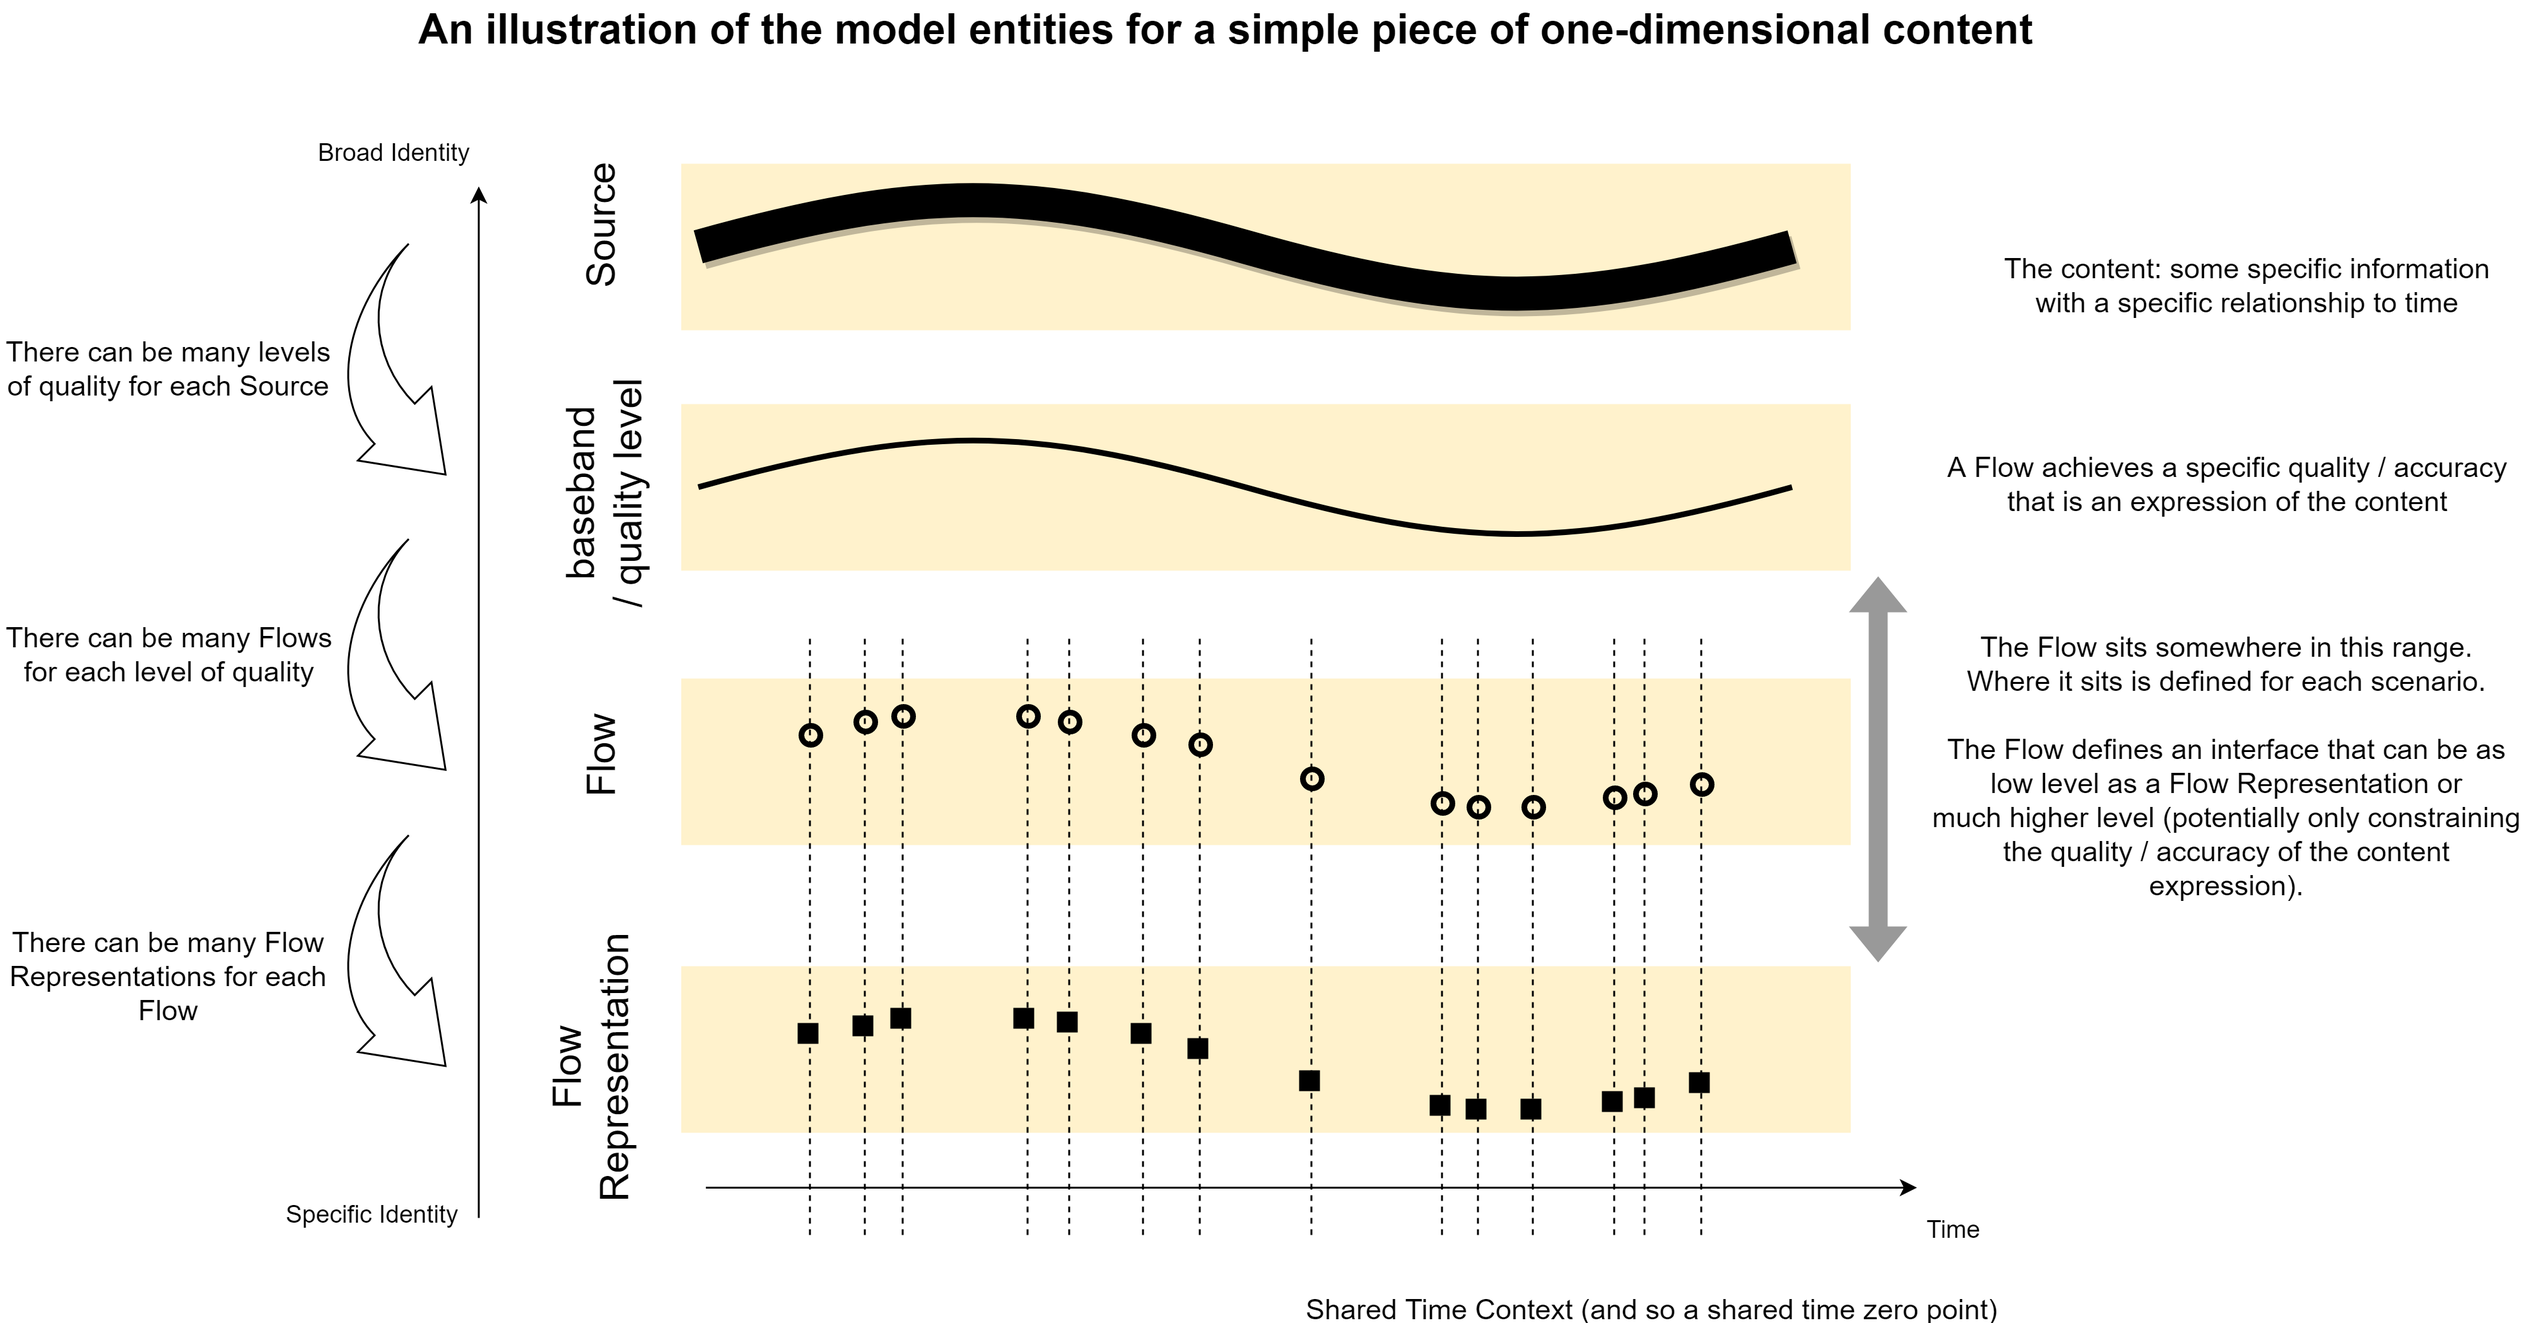
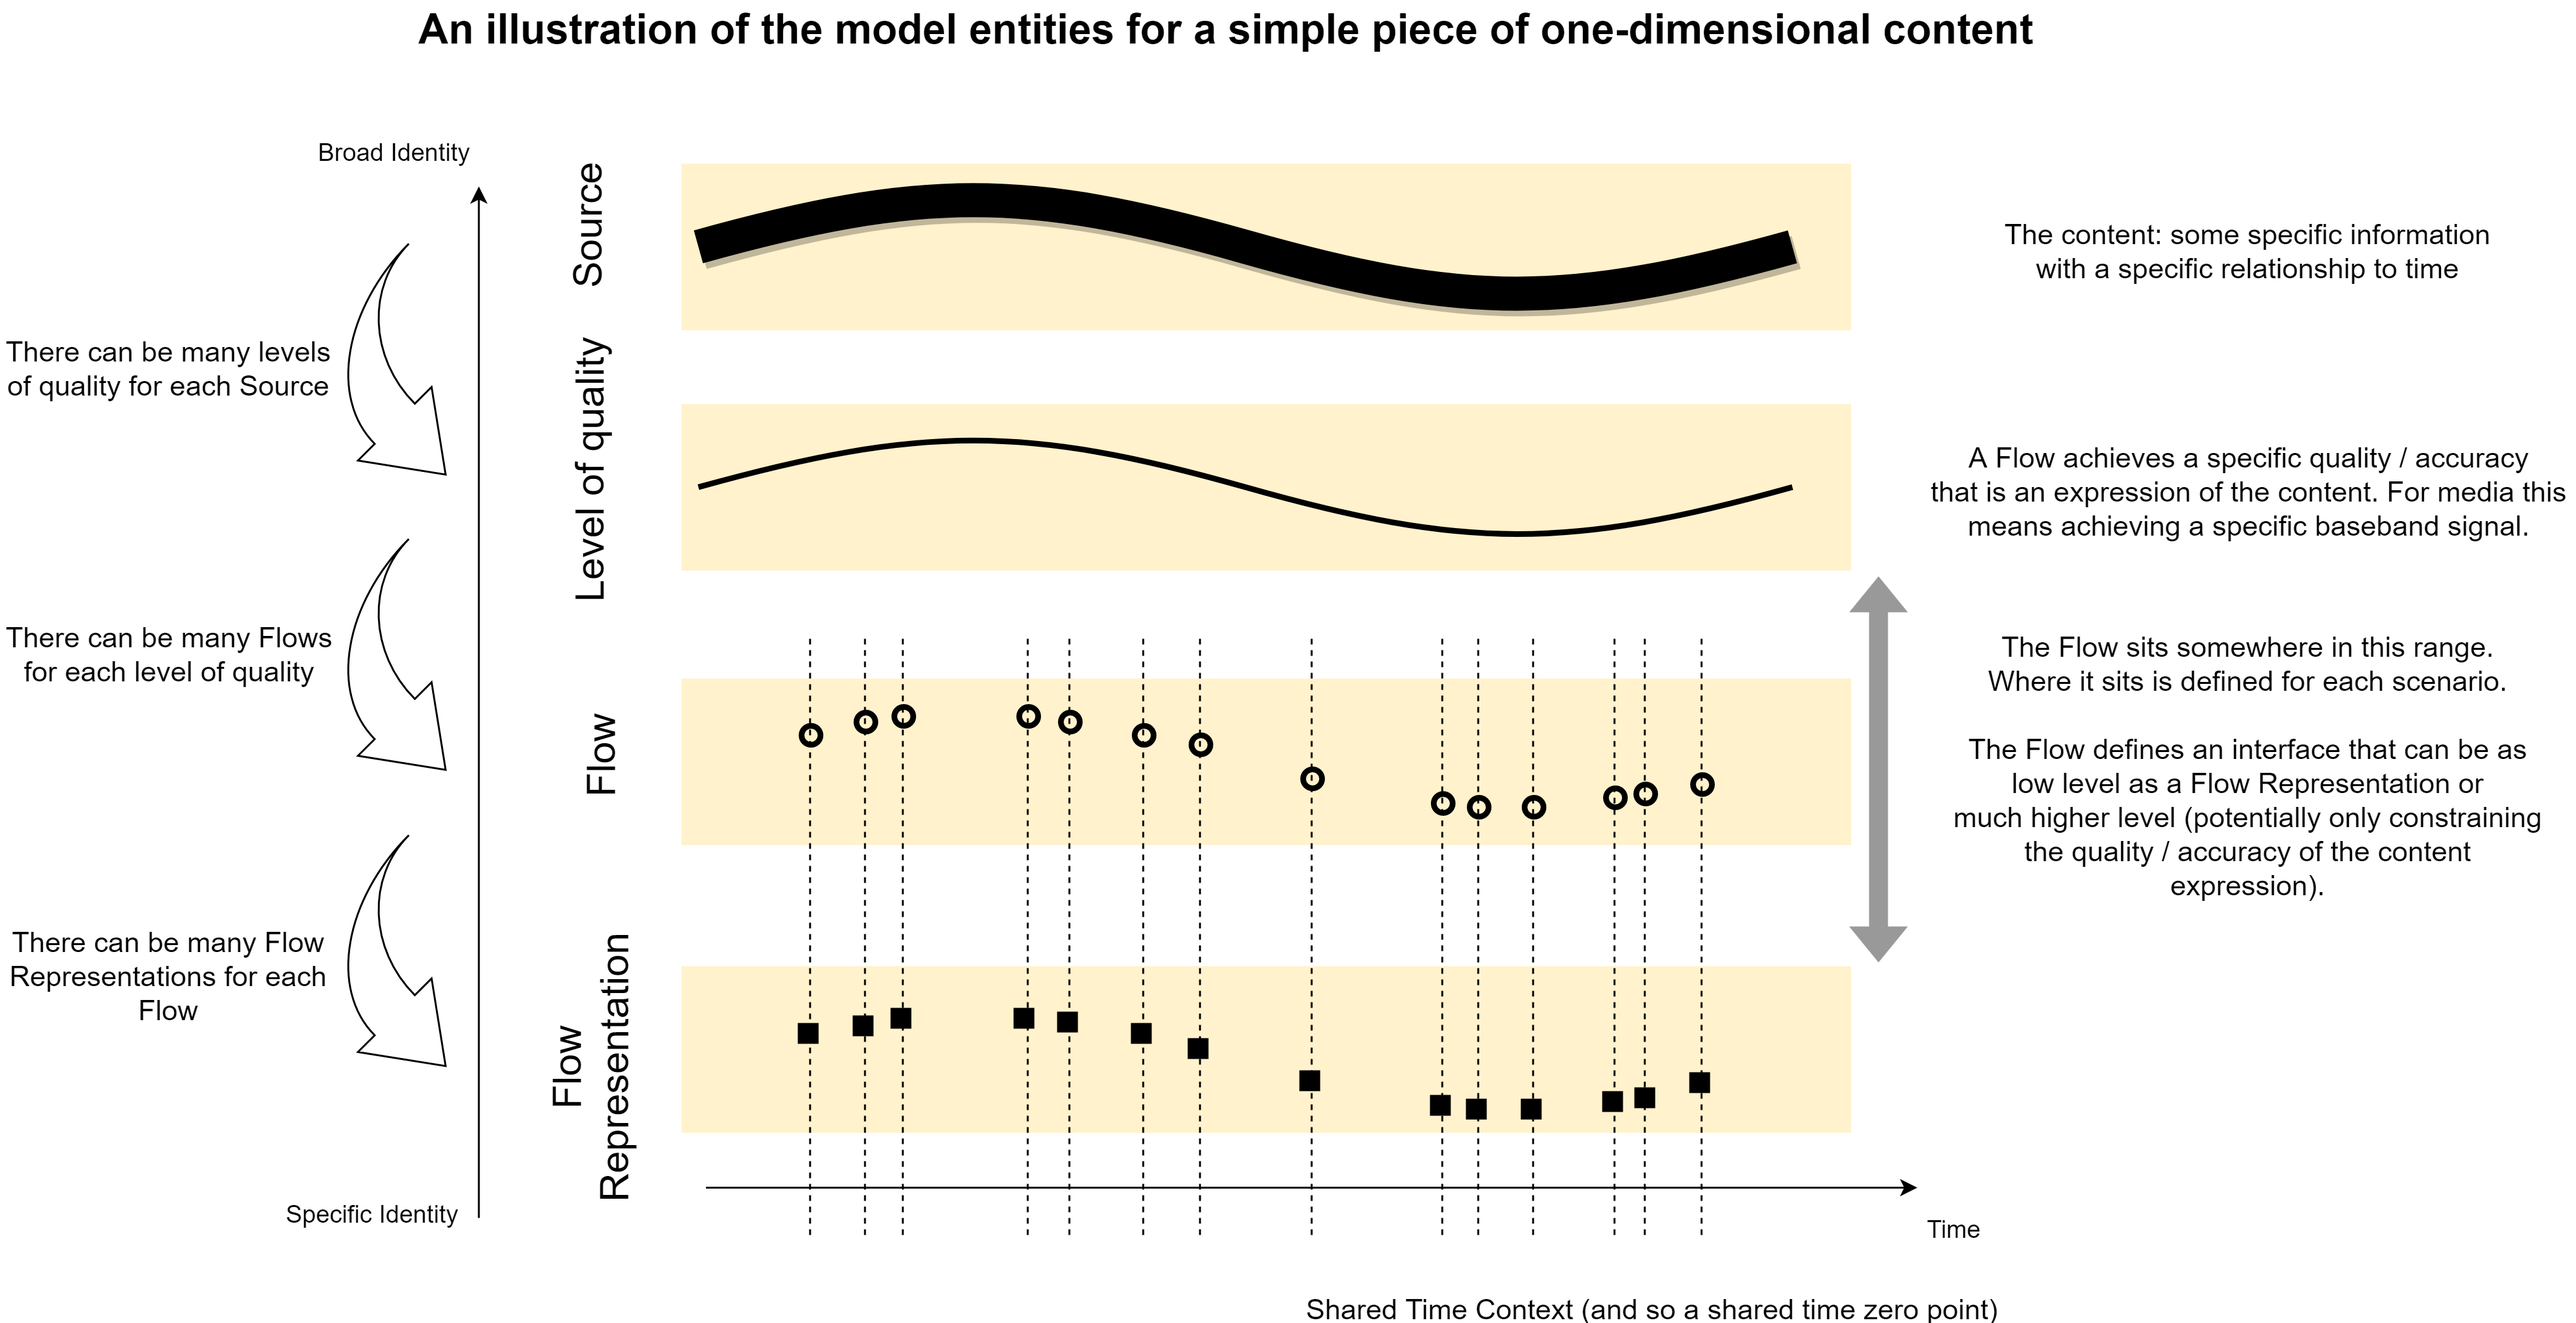
Numerous clarifications and corrections

diff --git a/docs/4.0. Appendix - Commentary.md b/docs/4.0. Appendix - Commentary.md
@@ -12,19 +12,20 @@ The detail contained within this additional documentation will not be of relevan
 
 As with many concepts, the terms `Source` and `Flow` have been overloaded in their usage over time. This model makes use of these terms in order to remain consistent with the JT-NM Reference Architecture which it is based upon, however the reader should be aware that usage in this model should not be confused with the following cases:
 
-*   The term "source" can sometimes be used to refer to a group of signals which both originate from and terminate at a particular location. One common example of this is in the concept of an "outside source". A `Source` ID in this model only ever refers to the grouping of a set of `Flow`s which share a common origin for the content contained within.
+*   The term "source" can sometimes be used to refer to a group of signals which both originate from and terminate at a particular location. One common example of this is in the concept of an "outside source". A `Source` ID in this model only ever refers to the grouping of a set of `Flow`s which express the same content.
 *   The term "flow" can sometimes be used to refer to a stream of packets which are carried over an IP network. Use of the term `Flow` within this model is not limited to characterising content as it transits a network, and a "network flow" has stronger parallels with one of potentially several `Flow Representation`s.
 
 ### JT-NM & NMOS Definitions
 
 The JT-NM Reference Architecture contains the following definitions, with similar definitions repeated in the AMWA IS-04 specification:
 
-*   "Source": an abstract concept that represents the primary origin of a "flow" or set of "flows"
-*   "Flow": a sequence of Grains from a source; a concrete representation of content emanating from the Source
+> "Source": an abstract concept that represents the primary origin of a "flow" or set of "flows"
+
+> "Flow": a sequence of Grains from a source; a concrete representation of content emanating from the Source
 
 This specification extends these definitions whilst attempting to remain compatible with them in order to clarify their intended usage within NMOS specifications. Justification for these extensions and clarifications is contained within the [Explanation - `Source`](2.2.%20Explanation%20-%20Source.md) and [Explanation - `Flow`](2.3.%20Explanation%20-%20Flow.md) documents.
 
-The term Grain used in the above definitions is not represented within this specification, however it can be thought of as similar to the `Entry` within a `Flow` which consists of a `Data Object` plus a `Time Value`.
+In the JT-NM Reference Architecture, Grains are used as a way to attach pieces of timing information to pieces of data. Further work is needed to provide guidance on how Grains are handled using the identity and timing model presented in this specification &ndash; see below.
 
 ## Further Work
 
@@ -32,11 +33,12 @@ Some areas of potential further work are defined below:
 
 ### Further Develop Ancestry and Grouping Modelling
 
-Some foundations on ancestry and grouping are presented in this Specification. Develop these areas into usable additions to the identity and timing model.
+Some foundations on ancestry and grouping are presented in this specification. Develop these areas into usable additions to the identity and timing model.
 
 ### Address Mapping of the Identity and Timing Model to Grains
 
-Provide guidance on how the existing NMOS concept of Grains should be handled using the identity and timing model presented in this Specification. This includes addressing the fact that practical implementations of Grains typically contain two timestamps.
+Provide guidance on how the existing NMOS concept of Grains should be handled using the identity and timing model presented in this specification. In practical applications Grains are used as a container for communicating `Flow`s. Each Grain can be used to contain multiple pieces of data and sometimes multiple
+pieces of timing information for each piece of data. As such, there is a relationship between Grains and `Flow Representation`s &ndash; this would need to be modelled. Note that a Grain behaves differently to an `Entry`. For example, an audio `Flow` could have `Entry`s corresponding to audio samples; potentially this could be communicated using `Grain`s that each contain numerous audio samples.
 
 ### Explain How the Model is Used with Practical Clocks
 

diff --git a/docs/2.4. Explanation - Flow Representation.md b/docs/2.4. Explanation - Flow Representation.md
@@ -16,7 +16,9 @@ In general, the `Flow Representation`s associated with a `Flow` will not be iden
 
 ## Notes on the Formal Definition of `Flow Representation`
 
-All the `Flow Representation`s that implement a `Flow` are representations of (almost) the same quality / accuracy. This constraint allows `Flow Representation`s with very small differences in baseband signal to be members of the same `Flow`. For example, if a lossy video compression process with a fixed configuration processes a video twice the `Flow Representation`s produced might not decode to identical baseband video signals for various reasons (such as random processes used in the video encoder). However, as long as these differences are considered negligible then these `Flow Representation`s can still be members of the same `Flow`. An alternative way to view this is that each `Data Object` might have a range of values associated with it: values in this range are all regarded as having a variation in quality / accuracy that is negligible for the scenario (in other words, the range of values: results in almost the same presentation; represents almost the same baseband signal).
+For a `Flow`, any differences in the data communicated by its `Flow Representation`s must be considered negligible for the intended purpose. For example, in a media scenario the `Flow Representation`s must all represent baseband signals that are considered "the same" for practical purposes such that they all result in "the same" presentation being perceived (for example, the differences in video pictures are visually imperceptible).
+
+This constraint allows `Flow Representation`s with very small differences in baseband signal to be members of the same `Flow`. For example, if a lossy video compression process with a fixed configuration processes a video twice then the `Flow Representation`s produced might not decode to identical baseband video signals for various reasons (such as random processes used in the video encoder). However, as long as these differences are considered negligible (they will not be visually noticeable or effect further graphics processing) then these `Flow Representation`s can still be members of the same `Flow`. An alternative way to view this is that each `Data Object` might have a range of values associated with it: values in this range are all regarded as having a variation in quality / accuracy that is negligible for the scenario (in other words, the range of values: results in practically the same presentation; represents practically the same baseband signal).
 
 The `Flow Representation`s belonging to a `Flow` are constrained to all use the same set of `Time Value`s (because these `Time Value`s are defined by the `Flow`). However, these `Flow Representation`s are not required to all populate the same set of `Time Value`s with data. For example, one `Flow Representation` might contain data for a one minute portion of the `Flow` whereas another `Flow Representation` might contain data for a three minute portion of the `Flow`.
 

diff --git a/docs/3.1. Basic Media Operations.md b/docs/3.1. Basic Media Operations.md
@@ -6,7 +6,7 @@ This document is not intended to be an exhaustive set of potential operations. H
 
 The headings below state how identity and timing must change as content is handled by the listed operations. The operations are grouped by the number of `Flow`s which are input to and output from the operation purely for convenience in documenting them. For example, '1..\*:1 `Flow`' indicates a 'many to one' operation where multiple input `Flow`s are combined in order to produce one output `Flow`.
 
-These identity changes should be applied in any cases where a process has the potential to make a change to the content, even if it isn't currently doing so. For example, a vision switcher's output should be identified with its own `Source` ID, even if it is currently acting as a pass-through for a single input.
+These identity changes should be applied in any cases where a process has the potential to make a change to the content, even if it is not currently doing so. For example, a vision switcher's output should be identified with its own `Source` ID, even if it is currently acting as a pass-through for a single input.
 
 ## No `Source` or `Flow` Changes
 
@@ -112,7 +112,7 @@ The following operations make no changes to the content's `Time Value`s or `Time
     *   Takes input content and produces an approximation of the input content which might or might not be an entirely reversible operation. The content represented should cover the same time period but might be reduced in spatial resolution. Includes the reverse operation.
 *   **Sample Rate Conversion**
     *   Takes time domain sampled content and produces a new output with a different sampling rate, but must convey the same content over exactly the same duration.
-    *   Note: Includes video frame rate conversion which might involve interpolation but does not include time stretches such as 24Hz to 25Hz where the same content is played back without modification but at a different rate (ie. duration modified). For these cases see 'Slow Motion / Speed Up' and 'Frame Synchroniser / Rate Conforming'.
+    *   Note: Includes video frame rate conversion (which might involve interpolation) but does not include time stretches such as 24Hz to 25Hz (where the same content is played back without modification but at a different rate and so the duration is modified). For these cases see "Slow Motion / Speed Up" and "Frame Synchroniser / Rate Conforming".
 
 ## 1..\*:1 `Flow`
 

diff --git a/docs/2.3. Explanation - Flow.md b/docs/2.3. Explanation - Flow.md
@@ -36,7 +36,7 @@ Guidance on how `Flow`s can be applied to the handling of video and audio can be
 
 ### General Notes
 
-A `Flow` can be regarded as a collection of `Entry`s. This collection of `Entry`s does not have any fixed / defined ordering, although the `Entry`s can of course be ordered by `Time Value` if required. However, in some real scenarios there could be `Time Value`-based restrictions on the order in which `Entry`s can be added to an existing `Flow` (for example, for a live media `Flow`). Note: This relates to mutability of the model entities which is commented on in [4.0. Appendix - Commentary](4.0.%20Appendix%20-%20Commentary.md#further-work).
+A `Flow` can be regarded as a collection of `Entry`s. This collection of `Entry`s does not have any fixed / defined ordering, although the `Entry`s can of course be ordered by `Time Value` if required. However, in some real scenarios there could be `Time Value`-based restrictions on the order in which `Entry`s can be added to an existing `Flow` (for example, for a live media `Flow`). Note: This relates to mutability of the model entities which is commented on in [4.0. Appendix - Commentary](4.0.%20Appendix%20-%20Commentary.md#further-work). Also refer to [notes on the relationship between Grains and `Entry`s](4.0.%20Appendix%20-%20Commentary.md#address-mapping-of-the-identity-and-timing-model-to-grains).
 
 There is no constraint that requires the technical properties of a `Flow` to be static. For example, the dimensions of a video or its framerate could change over time &ndash; but these properties would change in the same way across all `Flow Representation`s associated with the `Flow`.
 

diff --git a/docs/2.1. Summary and Definitions.md b/docs/2.1. Summary and Definitions.md
@@ -8,7 +8,7 @@ A `Source` (identified by a `Source` ID) is an easy and convenient way to refer 
 
 * the means used to express / communicate it (for example, multiple different video codecs might be used for one `Source`).
 * the exact quality / accuracy of the expression.
-* the exact placement of data at points in time (for example, multiple different video frame rates might be represented by a single `Source`)
+* the exact placement of data at points in time (for example, multiple different video frame rates might be represented by a single `Source`).
 
 A `Flow` (identified by a `Flow` ID) provides a way to refer to a specific expression of a `Source`. Each `Flow`:
 
@@ -71,10 +71,12 @@ Additionally:
 
 [Further explanation is provided about `Flow`s](2.3.%20Explanation%20-%20Flow.md)
 
+[Notes on the relationship between Grains and `Entry`s](4.0.%20Appendix%20-%20Commentary.md#address-mapping-of-the-identity-and-timing-model-to-grains)
+
 ### `Flow Representation`
 
 * A `Flow Representation` is a concrete implementation of exactly one `Flow`. It is a practical communication of the `Data Object`s and `Time Value`s defined by this `Flow`.
-* All the `Flow Representation`s that implement a `Flow` are representations of (almost) the same quality / accuracy (in other words, they all: result in (almost) the same presentation; represent (almost) the same baseband signal).
+* For a `Flow`, any differences in the data communicated by its `Flow Representation`s must be considered negligible for the intended purpose.
 
 [Further explanation is provided about `Flow Representation`s](2.4.%20Explanation%20-%20Flow%20Representation.md)
 
